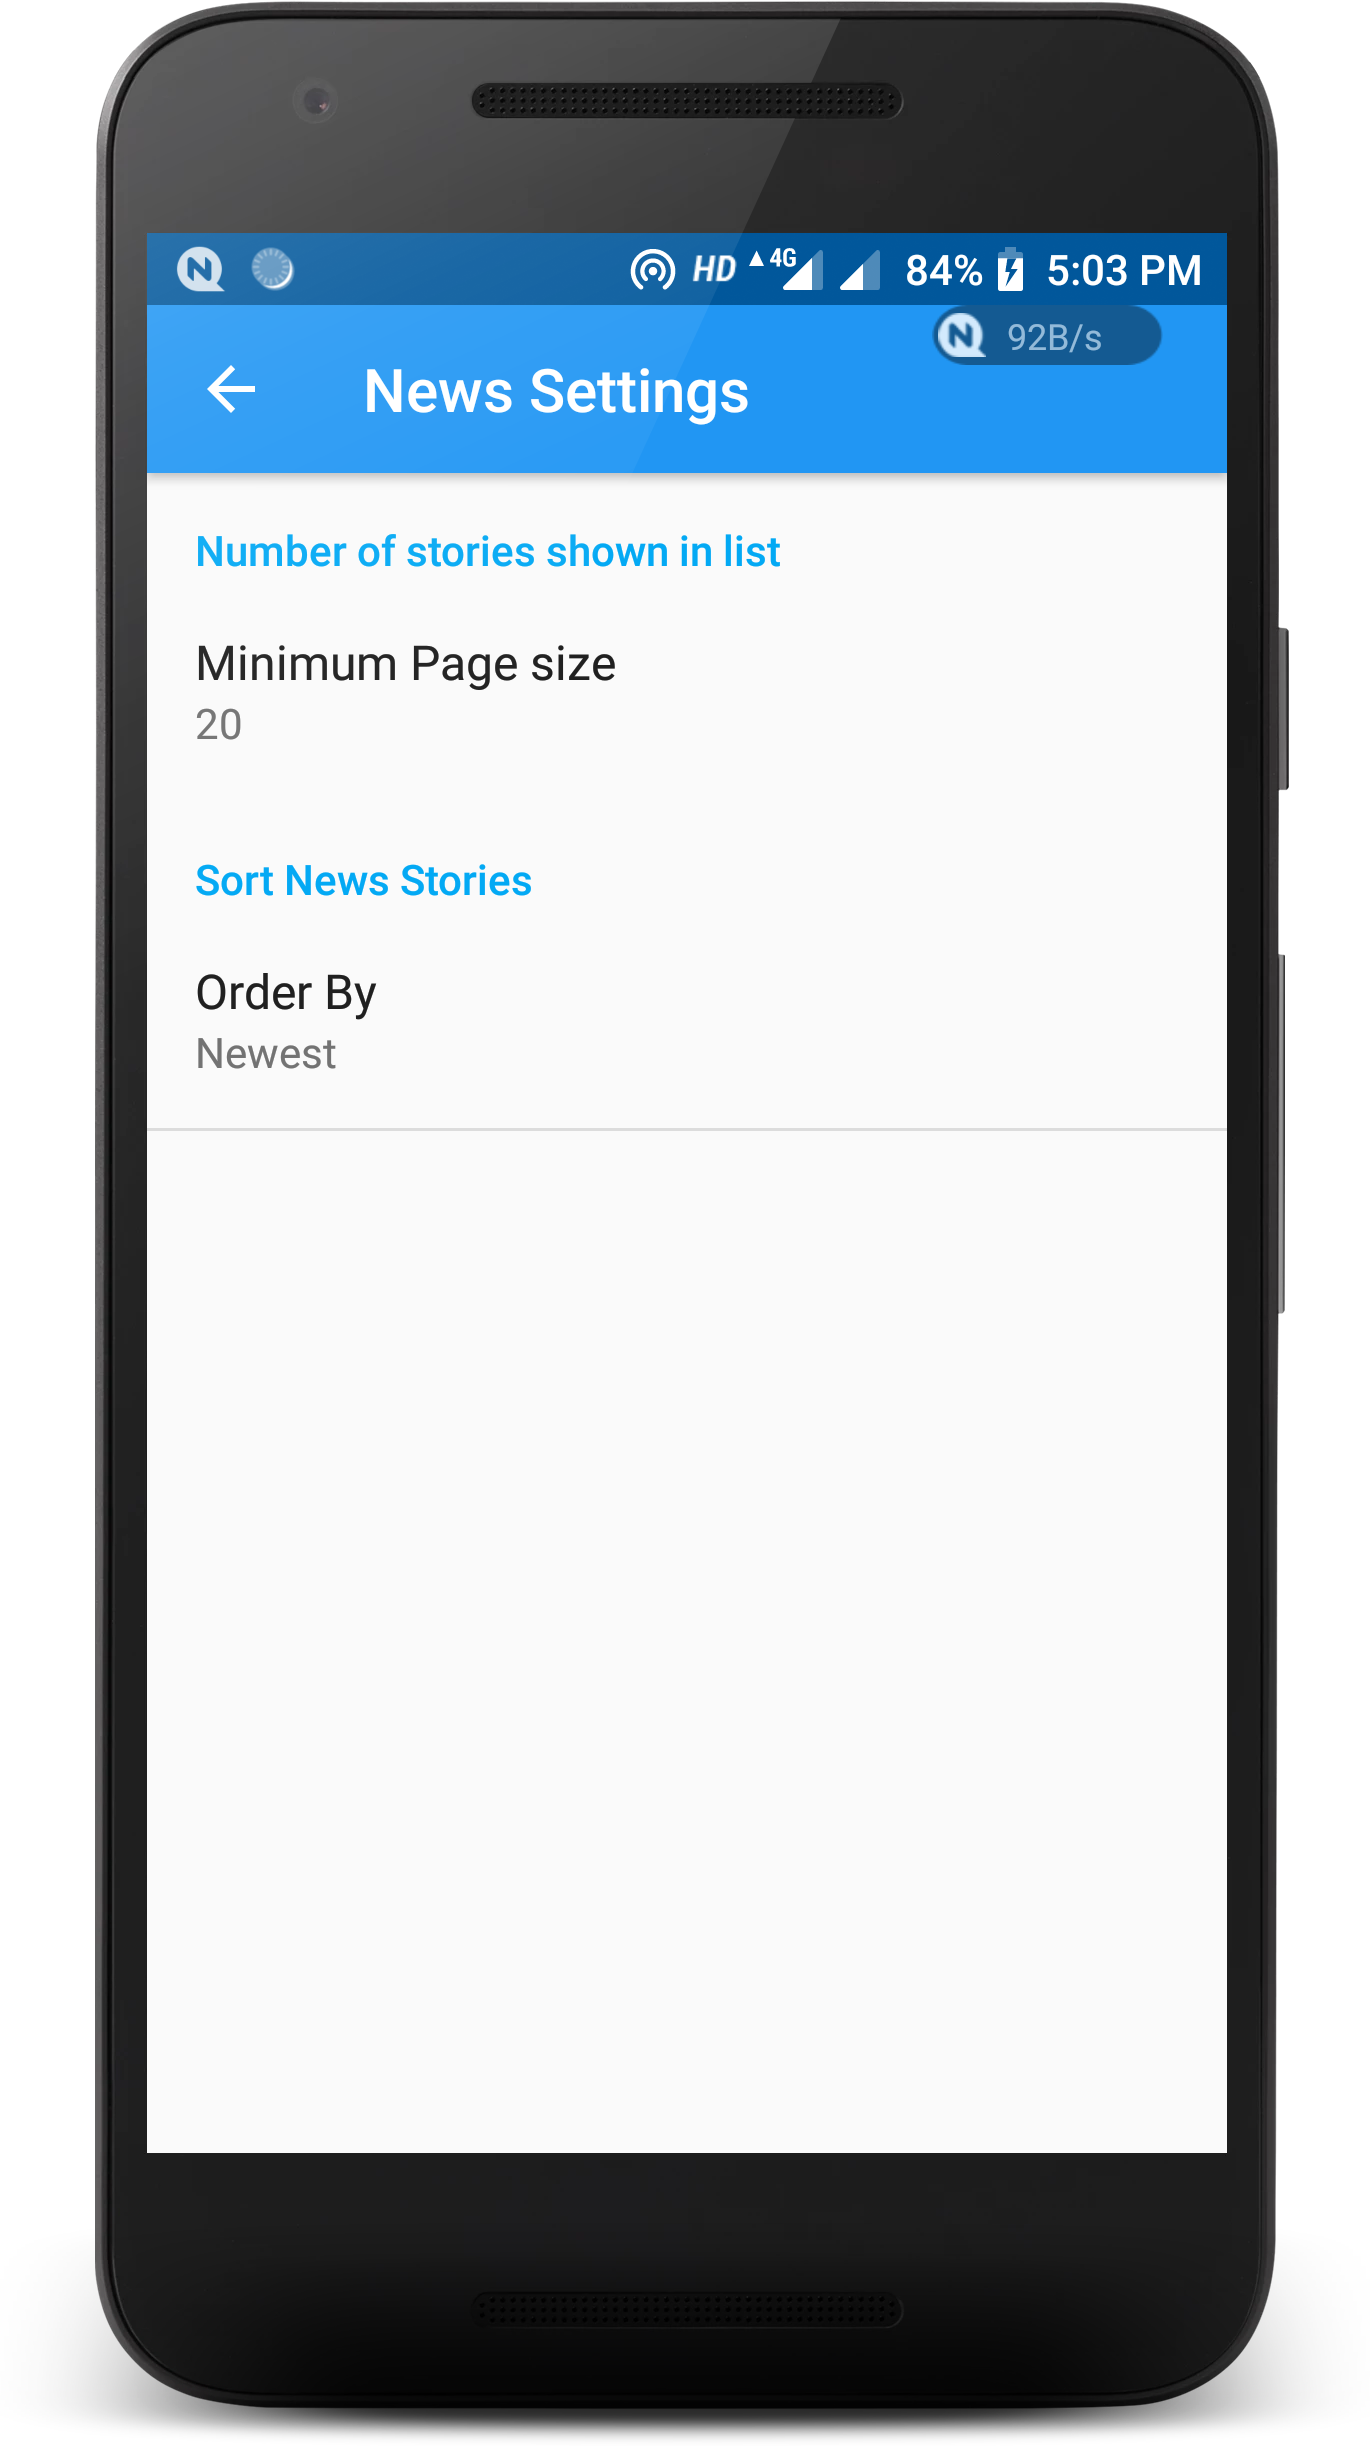
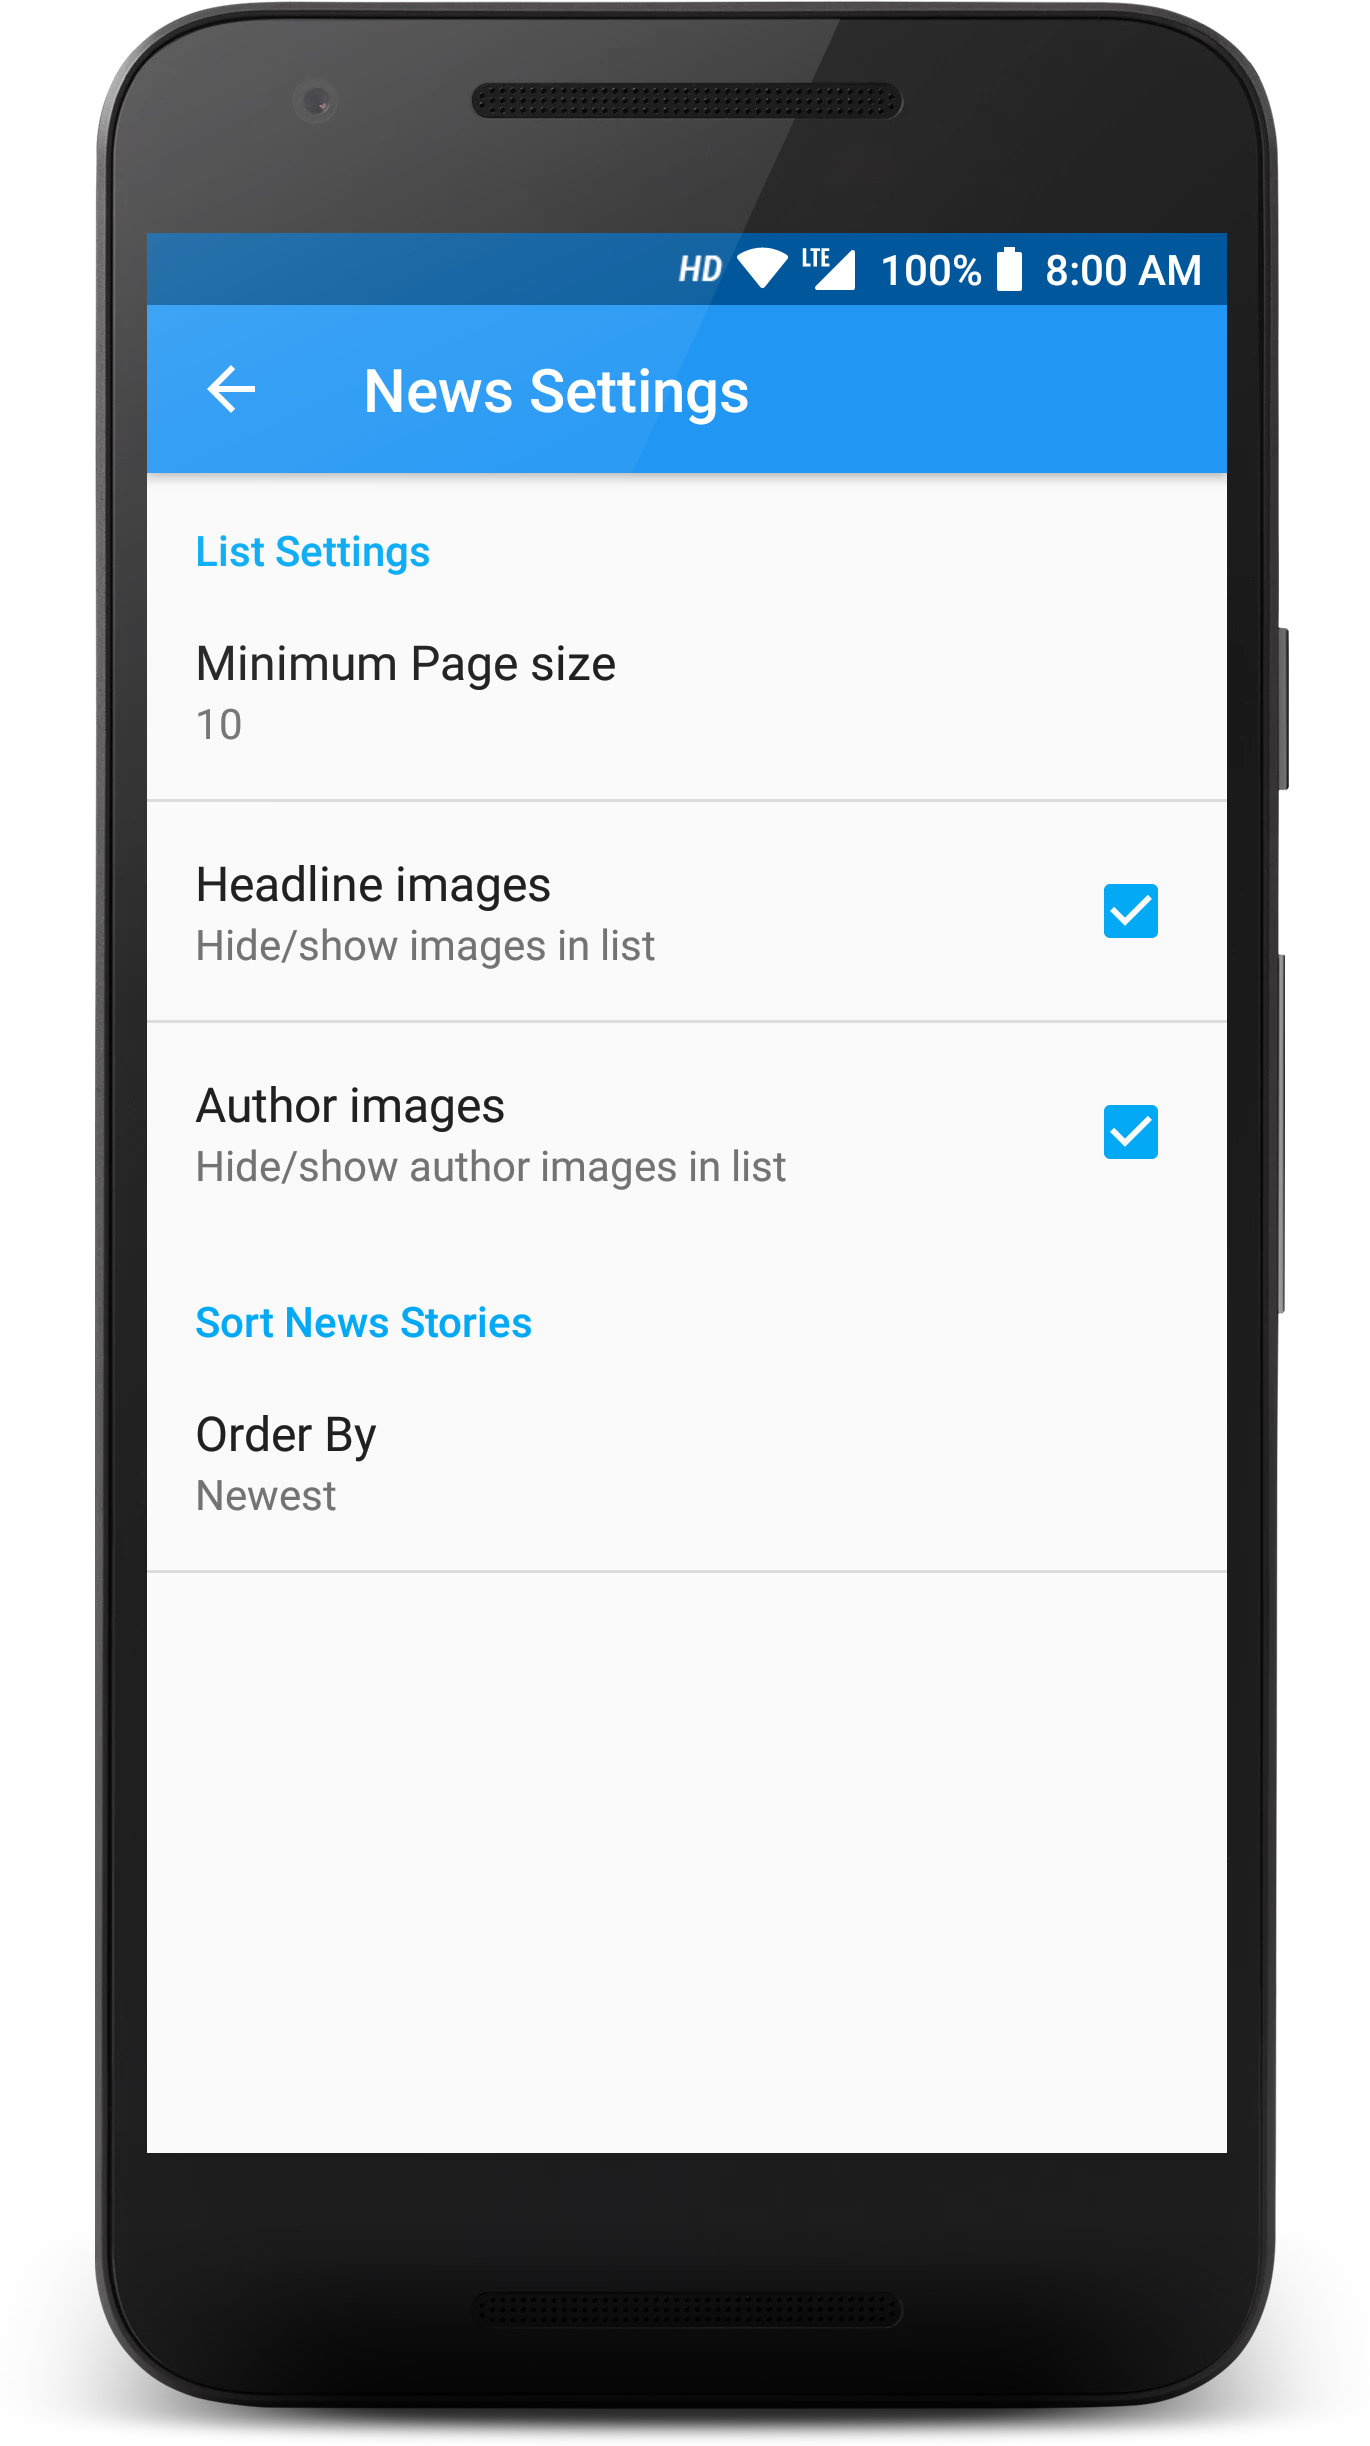
Added  - Settings Activity

diff --git a/app/src/main/java/com/example/hasanzian/newsapp/activity/NewsActivity.java b/app/src/main/java/com/example/hasanzian/newsapp/activity/NewsActivity.java
@@ -52,7 +52,6 @@ public class NewsActivity extends AppCompatActivity implements LoaderManager.Loa
     private static final String FORMAT_VALUE = "json";
     private static final String QUARRY_SEARCH = "q";
     private static final String QUARRY_PAGE_SIZE = "page-size";
-    private static final String PAGE_SIZE_VALUE = "10";
     private static final String QUARRY_API_KEY = "api-key";
     private static final String API_KEY_VALUE = BuildConfig.ApiKey;
     private static final String QUARRY_PAGE = "page";
@@ -65,7 +64,6 @@ public class NewsActivity extends AppCompatActivity implements LoaderManager.Loa
     public TextView mEmptyStateTextView;
     @BindView(R.id.footer)
     public ProgressBar footer; // when scrolling is done
-    private String URL_API;
     private List<Model> mList = new ArrayList<>();
     private boolean isLoading = false;
     private boolean isLastPage = false;
@@ -84,7 +82,6 @@ public class NewsActivity extends AppCompatActivity implements LoaderManager.Loa
         super.onCreate(savedInstanceState);
         setContentView(R.layout.activity_main);
         ButterKnife.bind(this);
-
         footer.setVisibility(View.INVISIBLE);
         mRecyclerView.setHasFixedSize(true);
         mLinearLayoutManager = new LinearLayoutManager(this);
@@ -128,7 +125,6 @@ public class NewsActivity extends AppCompatActivity implements LoaderManager.Loa
                     pageNumber += 1;
                     Log.d("Load More", "Current number: " + pageNumber);
                     Log.d("TAG", "RestartLoader on LoadMore");
-                    URL_API = START_URL + pageNumber + API_KEY;
                     loaderManager.restartLoader(1, null, NewsActivity.this);
                     mAdaptor.notifyDataSetChanged();
                 } else {
@@ -174,7 +170,6 @@ public class NewsActivity extends AppCompatActivity implements LoaderManager.Loa
         // getString retrieves a String value from the preferences. The second parameter is the default value for this preference.
         String minPageSize = sharedPrefs.getString(getString(R.string.settings_min_page_key), getString(R.string.settings_min_page_default));
         String orderBy = sharedPrefs.getString(getString(R.string.settings_order_by_key), getString(R.string.settings_order_by_default));
-
         // parse breaks apart the URI string that's passed into its parameter
         Uri baseUri = Uri.parse(NEWS_REQ_URL);
 
@@ -238,10 +233,9 @@ public class NewsActivity extends AppCompatActivity implements LoaderManager.Loa
         searchView.setOnQueryTextListener(new SearchView.OnQueryTextListener() {
             @Override
             public boolean onQueryTextSubmit(String s) {
-                s = s + query;
+                query = query + s;
                 loaderManager.restartLoader(1, null, NewsActivity.this);
                 mAdaptor.notifyDataSetChanged();
-
                 Toast.makeText(getApplicationContext(), "" + s, Toast.LENGTH_SHORT).show();
                 return true;
             }

diff --git a/app/src/main/java/com/example/hasanzian/newsapp/adaptor/RecyclerAdaptor.java b/app/src/main/java/com/example/hasanzian/newsapp/adaptor/RecyclerAdaptor.java
@@ -3,6 +3,7 @@ package com.example.hasanzian.newsapp.adaptor;
 import android.content.Context;
 import android.graphics.Typeface;
 import android.support.annotation.NonNull;
+import android.support.v7.widget.CardView;
 import android.support.v7.widget.RecyclerView;
 import android.view.LayoutInflater;
 import android.view.View;
@@ -67,6 +68,18 @@ public class RecyclerAdaptor extends RecyclerView.Adapter<RecyclerAdaptor.myView
 
         Glide.with(mContext).setDefaultRequestOptions(QueryUtils.requestOptions()).load(mList.get(position).getImageUrl()).into(holder.mImageView);
         Glide.with(mContext).setDefaultRequestOptions(QueryUtils.requestOptions()).load(mList.get(position).getAuthorImage()).into(holder.mAuthorImage);
+
+        if (QueryUtils.imageOptions(mContext)) {
+            holder.mStoryImage.setVisibility(View.GONE);
+        } else {
+            holder.mStoryImage.setVisibility(View.VISIBLE);
+        }
+        if (QueryUtils.authorImage(mContext)) {
+            holder.mAuthorImage.setVisibility(View.GONE);
+        } else {
+            holder.mAuthorImage.setVisibility(View.VISIBLE);
+        }
+
     }
 
     @Override
@@ -90,6 +103,9 @@ public class RecyclerAdaptor extends RecyclerView.Adapter<RecyclerAdaptor.myView
         ImageView mImageView;
         @BindView(R.id.authorImage)
         ImageView mAuthorImage;
+
+        @BindView(R.id.card_image)
+        CardView mStoryImage;
 
         myViewHolder(View itemView) {
             super(itemView);

diff --git a/app/src/main/java/com/example/hasanzian/newsapp/utils/QueryUtils.java b/app/src/main/java/com/example/hasanzian/newsapp/utils/QueryUtils.java
@@ -1,10 +1,12 @@
 package com.example.hasanzian.newsapp.utils;
 
 import android.content.Context;
+import android.content.SharedPreferences;
 import android.content.res.AssetManager;
 import android.graphics.Typeface;
 import android.net.ConnectivityManager;
 import android.net.NetworkInfo;
+import android.preference.PreferenceManager;
 import android.text.TextUtils;
 import android.util.Log;
 
@@ -185,5 +187,15 @@ public final class QueryUtils {
         requestOptions.placeholder(R.drawable.ic_launcher_foreground);
         requestOptions.error(R.drawable.gurdian);
         return requestOptions;
+    }
+
+    public static boolean imageOptions(Context mContext) {
+        SharedPreferences sharedPrefs = PreferenceManager.getDefaultSharedPreferences(mContext);
+        return sharedPrefs.getBoolean(mContext.getString(R.string.settings_show_images_key), true);
+    }
+
+    public static boolean authorImage(Context mContext) {
+        SharedPreferences sharedPrefs = PreferenceManager.getDefaultSharedPreferences(mContext);
+        return sharedPrefs.getBoolean(mContext.getString(R.string.settings_show_images_author_key), true);
     }
 }
